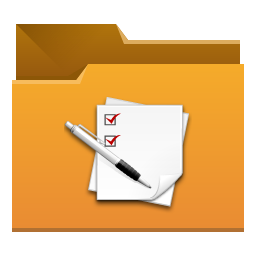
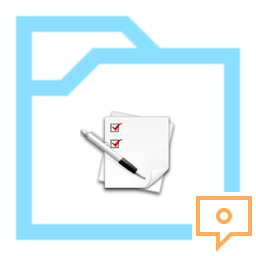
arreglado icono principal/actualizado archivo README

diff --git a/README.md b/README.md
@@ -12,4 +12,13 @@ La información se almacena en una base de datos **sqlite3**  que consta de 5 ca
 
 Se reproducen sonidos cada vez que una ítem de la lista se marca como "realizado" y también cuando se completa la lista entera o se borran todos los elementos.
 
+<<<<<<< HEAD
 Más información en: [Tachame la lista! - The Nerdy Apprentice](https://thenerdyapprentice.blogspot.com/2024/03/actualizacion-tachame-la-lista.html)
+=======
+Todos mis proyectos y más información en: [https://thenerdyapprentice.blogspot.com/](https://thenerdyapprentice.blogspot.com/) 
+
+---
+Si quieres puedes ayudarme con todos mis proyectos invitándome un cafecito!
+
+[![Invitame un café en cafecito.app](https://cdn.cafecito.app/imgs/buttons/button_1.svg)](https://cafecito.app/thenerdyapprentice)
+>>>>>>> cf9792b (arreglado icono principal/actualizado archivo README)
